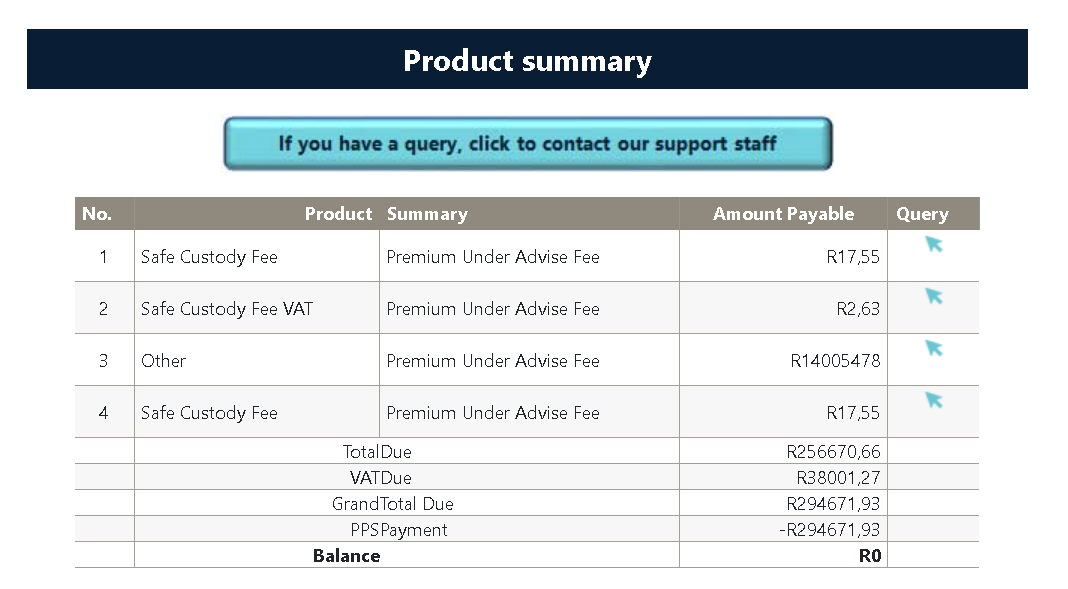
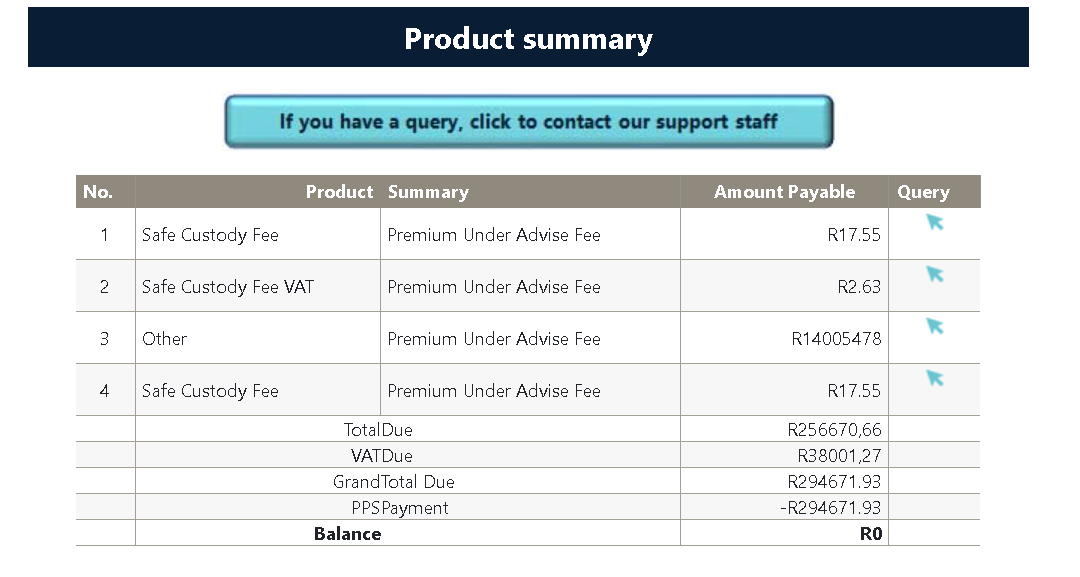
replace comma with decimal poin in production summary

Changed region(s): [[0.0, 0.0, 0.9888, 0.9671], [0.618, 0.5303, 0.6489, 0.5927]]

diff --git a/Manager/GenerateStatementManager.cs b/Manager/GenerateStatementManager.cs
@@ -2276,7 +2276,7 @@ namespace nIS
                     long index = 1;
                     productSummary.ToList().ForEach(item =>
                     {
-                        productSummarySrc.Append("<tr><td align='center' valign='center' class='px-1 py-1 fsp-bdr-right fsp-bdr-bottom'>" + index + "</td><td class='fsp-bdr-right fsp-bdr-bottom px-1'>" + item.Commission_Type + "</td>" + "<td class='fsp-bdr-right fsp-bdr-bottom px-1'> " + (item.Prod_Group == "Service Fee" ? "Premium Under Advise Fee" : item.Prod_Group) + "</td> <td class='text-right fsp-bdr-right fsp-bdr-bottom px-1'>R" + item.Display_Amount.ToString().Replace('.', ',') + "</td><td class='text-center fsp-bdr-bottom px-1'><a  href ='https://facebook.com' target='_blank'><img class='leftarrowlogo' src ='../common/images/leftarrowlogo.png' alt = 'Left Arrow'></a></td></tr>");
+                        productSummarySrc.Append("<tr><td align='center' valign='center' class='px-1 py-1 fsp-bdr-right fsp-bdr-bottom'>" + index + "</td><td class='fsp-bdr-right fsp-bdr-bottom px-1'>" + item.Commission_Type + "</td>" + "<td class='fsp-bdr-right fsp-bdr-bottom px-1'> " + (item.Prod_Group == "Service Fee" ? "Premium Under Advise Fee" : item.Prod_Group) + "</td> <td class='text-right fsp-bdr-right fsp-bdr-bottom px-1'>R" + item.Display_Amount.ToString().Replace(',', '.') + "</td><td class='text-center fsp-bdr-bottom px-1'><a  href ='https://facebook.com' target='_blank'><img class='leftarrowlogo' src ='../common/images/leftarrowlogo.png' alt = 'Left Arrow'></a></td></tr>");
                         index++;
                     });
                     pageContent.Replace("{{ProductSummary}}", productSummarySrc.ToString());
@@ -2289,11 +2289,11 @@ namespace nIS
                     vatAmount = vatAmount.Replace('.', ',');
                     pageContent.Replace("{{VATDue}}", "R" + vatAmount);
                     double grandTotalDue = (Convert.ToDouble(productSummary.FirstOrDefault().Earning_Amount) + Convert.ToDouble(productSummary.FirstOrDefault().VAT_Amount));
-                    String grandTotalDueStr = grandTotalDue.ToString().Replace('.', ',');
+                    String grandTotalDueStr = grandTotalDue.ToString().Replace(',', '.');
                     pageContent.Replace("{{GrandTotalDue}}", "R" + grandTotalDueStr);
                     double ppsPayment = grandTotalDue;
                     pageContent.Replace("{{PPSPayment}}", "-R" + grandTotalDueStr);
-                    String Balance=Convert.ToDouble((grandTotalDue - ppsPayment)).ToString().Replace('.', ',');
+                    String Balance=Convert.ToDouble((grandTotalDue - ppsPayment)).ToString().Replace(',', '.');
 
                     pageContent.Replace("{{Balance}}", "R" + Balance);
 

diff --git a/Manager/StatementSearchManager.cs b/Manager/StatementSearchManager.cs
@@ -1317,7 +1317,7 @@ namespace nIS
                     long index = 1;
                     productSummary.ToList().ForEach(item =>
                     {
-                        productSummarySrc.Append("<tr><td align='center' valign='center' class='px-1 py-1 fsp-bdr-right fsp-bdr-bottom'>" + index + "</td><td class='fsp-bdr-right fsp-bdr-bottom px-1'>" + item.Commission_Type + "</td>" + "<td class='fsp-bdr-right fsp-bdr-bottom px-1'> " + (item.Prod_Group == "Service Fee" ? "Premium Under Advise Fee" : item.Prod_Group) + "</td> <td class='text-right fsp-bdr-right fsp-bdr-bottom px-1'>R" + item.Display_Amount.ToString().Replace('.', ',') + "</td><td class='text-center fsp-bdr-bottom px-1'><a  href ='https://facebook.com' target='_blank'><img class='leftarrowlogo' src ='assets/images/leftarrowlogo.png' alt = 'Left Arrow'></a></td></tr>");
+                        productSummarySrc.Append("<tr><td align='center' valign='center' class='px-1 py-1 fsp-bdr-right fsp-bdr-bottom'>" + index + "</td><td class='fsp-bdr-right fsp-bdr-bottom px-1'>" + item.Commission_Type + "</td>" + "<td class='fsp-bdr-right fsp-bdr-bottom px-1'> " + (item.Prod_Group == "Service Fee" ? "Premium Under Advise Fee" : item.Prod_Group) + "</td> <td class='text-right fsp-bdr-right fsp-bdr-bottom px-1'>R" + item.Display_Amount.ToString().Replace(',', '.') + "</td><td class='text-center fsp-bdr-bottom px-1'><a  href ='https://facebook.com' target='_blank'><img class='leftarrowlogo' src ='assets/images/leftarrowlogo.png' alt = 'Left Arrow'></a></td></tr>");
                         index++;
                     });
                 pageContent.Replace("{{ProductSummary}}", productSummarySrc.ToString());
@@ -1329,11 +1329,11 @@ namespace nIS
                 vatAmount = vatAmount.Replace('.', ',');
                 pageContent.Replace("{{VATDue}}", "R" + vatAmount);
                 double grandTotalDue = (Convert.ToDouble(productSummary.FirstOrDefault().Earning_Amount) + Convert.ToDouble(productSummary.FirstOrDefault().VAT_Amount));
-                String grandTotalDueStr = grandTotalDue.ToString().Replace('.', ',');
+                String grandTotalDueStr = grandTotalDue.ToString().Replace(',', '.');
                 pageContent.Replace("{{GrandTotalDue}}", "R" + grandTotalDueStr);
                 double ppsPayment = grandTotalDue;
                 pageContent.Replace("{{PPSPayment}}", "-R" + grandTotalDueStr);
-                String Balance = Convert.ToDouble((grandTotalDue - ppsPayment)).ToString().Replace('.', ',');
+                String Balance = Convert.ToDouble((grandTotalDue - ppsPayment)).ToString().Replace(',', '.');
                 pageContent.Replace("{{Balance}}", "R" + Balance);
             }
             }

diff --git a/Repository/SQLRepository/SQLStatementRepository.cs b/Repository/SQLRepository/SQLStatementRepository.cs
@@ -2458,11 +2458,11 @@ namespace nIS
                                             vatAmount = vatAmount.Replace('.', ',');
                                             pageContent.Replace("{{VATDue}}", "R" + vatAmount);
                                             double grandTotalDue = (Convert.ToDouble(productSummary.FirstOrDefault().Earning_Amount) + Convert.ToDouble(productSummary.FirstOrDefault().VAT_Amount));
-                                            String grandTotalDueStr = grandTotalDue.ToString().Replace('.', ',');
+                                            String grandTotalDueStr = grandTotalDue.ToString().Replace(',', '.');
                                             pageContent.Replace("{{GrandTotalDue}}", "R" + grandTotalDueStr);
                                             double ppsPayment = grandTotalDue;
                                             pageContent.Replace("{{PPSPayment}}", "-R" + grandTotalDueStr);
-                                            String Balance = Convert.ToDouble((grandTotalDue - ppsPayment)).ToString().Replace('.', ',');
+                                            String Balance = Convert.ToDouble((grandTotalDue - ppsPayment)).ToString().Replace(',', '.');
                                             pageContent.Replace("{{Balance}}", "R" + Balance);
                                         }
                                     }
